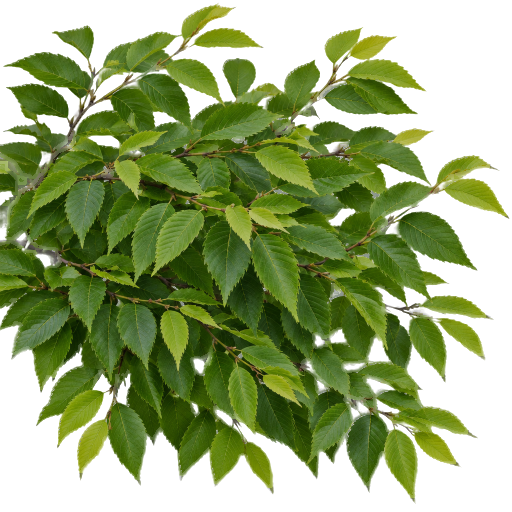
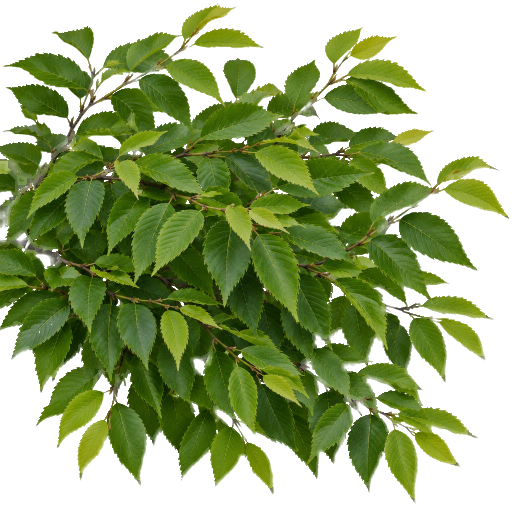
그래픽 마무리: 차 텀블홈·문 거울, 대시보드 문까지·패드·박음질, 나무 텍스처 흰 잔여 제거, 잎 덩어리 둥글게, 거울 받침 야간
- 테스트 자동 운전: 급한 굽은 길 앞 감속 (골목 회전에서 보도로 나가던 것)
- 테스트: 단위 18 · 브라우저 79 통과

diff --git a/cabin.js b/cabin.js
@@ -19,7 +19,7 @@ const grainTex = (base, amp, n) => canvasTex(256, 256, (g, w, h) => {
 const softTex = grainTex('#8a8d93', .06, 9000); softTex.repeat.set(8, 8);      // 대시보드 소프트 플라스틱(무광 결)
 const leatherTex = grainTex('#8a8b90', .12, 7000); leatherTex.repeat.set(24, 2);
 const CM = {
-  dash:  new THREE.MeshStandardMaterial({map:softTex, color:lin('#3a3c41'), roughness:.9, envMapIntensity:.2}),
+  dash:  new THREE.MeshStandardMaterial({map:softTex, color:lin('#3b3d42'), roughness:.92, envMapIntensity:.18}),
   dashLow: new THREE.MeshStandardMaterial({map:softTex, color:lin('#2b2d31'), roughness:.88, envMapIntensity:.2}),
   piano: new THREE.MeshStandardMaterial({color:lin('#07080a'), roughness:.1, metalness:.4, envMapIntensity:1}),        // 디스플레이 테 · 버튼 판(유광 검정)
   satin: new THREE.MeshStandardMaterial({color:lin('#b4b9c0'), roughness:.3, metalness:.95, envMapIntensity:.9}),       // 송풍구 날개 · 핸들 장식
@@ -52,13 +52,29 @@ function extrudeX(pts, x0, x1, mat){
    윗면은 운전자 쪽으로 낮아지며(계기판 자리) 둥글게 꺾여 앞면으로. 앞면엔 가로 금속 띠 + 얇은 송풍구 (요즘 국산 중형 세단 구성) */
 const COWL = {y:-.205, z:-1.05};
 extrudeX([[COWL.z, COWL.y], [-.90, -.222], [-.80, -.245], [-.70, -.262], [-.615, -.272, -.585, -.29], [-.572, -.31, -.574, -.335],
-  [-.574, -.36], [-1.1, -.36]], -.62, 1.36, CM.dash);
-extrudeX([[-.574, -.36], [-.55, -.47], [-.47, -.62], [-.62, -.82], [-1.1, -.82], [-1.1, -.36]], -.62, 1.36, CM.dashLow);
+  [-.574, -.36], [-1.1, -.36]], -1.1, 1.36, CM.dash);   // 왼쪽 끝 −1.1: 문 안쪽까지 (2026-10-29 — 예전 −0.62에서 끝나 왼쪽 아래로 도로가 보였음)
+extrudeX([[-.574, -.36], [-.55, -.47], [-.47, -.62], [-.62, -.82], [-1.1, -.82], [-1.1, -.36]], -1.1, 1.36, CM.dashLow);
 cadd(new THREE.BoxGeometry(1.9, .016, .012), CM.band, .37, -.318, -.576);                     // 가로 금속 띠
 
 cadd(new THREE.BoxGeometry(1.9, .013, .012), CM.piano, .37, -.336, -.577);                     // 얇은 송풍구 틈
 for(const x of [-.38, .2, .55, 1.0]) for(let k=0;k<4;k++) cadd(new THREE.BoxGeometry(.003, .011, .014), CM.satin, x + k*.022, -.336, -.574);   // 송풍구 날개
 cadd(new THREE.BoxGeometry(1.9, .0022, .004), CM.ambient, .37, -.3055, -.5765);                // 무드등 띠
+
+/* 2026-10-29: 대시보드 표면 소재 구분 — 윗면 패드(가죽 결 · 박음질 두 줄) / 앞유리 밑 서리 제거 송풍구 / 유리 아래끝 검은 세라믹 띠 */
+const padTex = canvasTex(256, 256, (g, w, h) => {   // 가죽 결: 작은 주름 점
+  g.fillStyle = '#7e8187'; g.fillRect(0, 0, w, h);
+  for(let i = 0; i < 5200; i++){ const v = Math.random() < .5 ? 40 : 200; g.fillStyle = `rgba(${v},${v},${v},${Math.random()*.08})`; g.beginPath(); g.ellipse(Math.random()*w, Math.random()*h, 1 + Math.random()*1.6, .6 + Math.random(), Math.random()*3, 0, 6.3); g.fill(); }
+}, true); padTex.repeat.set(10, 6);
+CM.pad = new THREE.MeshStandardMaterial({map:padTex, color:lin('#34363a'), roughness:.78, envMapIntensity:.25});
+CM.stitch = new THREE.MeshStandardMaterial({color:lin('#55585e'), roughness:.8});
+CM.frit = new THREE.MeshBasicMaterial({map:canvasTex(8, 64, (g, w, h) => { const gr = g.createLinearGradient(0, h, 0, 0); gr.addColorStop(0, 'rgba(6,7,9,1)'); gr.addColorStop(.55, 'rgba(6,7,9,.9)'); gr.addColorStop(1, 'rgba(6,7,9,0)'); g.fillStyle = gr; g.fillRect(0, 0, w, h); }), transparent:true, depthWrite:false});
+// 윗면 패드: 대시보드 윗면 모양을 따라 1.5mm 위에 얹은 판 (운전자 앞 ~ 조수석 앞)
+extrudeX([[-.93, -.2155], [-.90, -.2205], [-.80, -.2435], [-.70, -.2605], [-.64, -.2685], [-.64, -.2725], [-.93, -.2195]], -.6, 1.34, CM.pad);
+for(const [z, y] of [[-.905, -.2185], [-.648, -.2672]]) for(let x = -.58; x < 1.33; x += .012) cadd(new THREE.BoxGeometry(.006, .0011, .0018), CM.stitch, x, y + .001, z);   // 박음질 (패드와 비슷한 색 — 도로 선처럼 튀지 않게)
+// 서리 제거 송풍구: 앞유리 밑 가로 홈 + 날개
+cadd(new THREE.BoxGeometry(1.5, .003, .03), CM.piano, .37, -.2122, -.985);   // 서리 제거 송풍구 홈 (날개는 홈 안에 숨어 보이지 않음)
+// 앞유리 아래끝 검은 세라믹 띠 (위로 갈수록 옅어짐)
+cadd(new THREE.PlaneGeometry(2.6, .035), CM.frit, .37, COWL.y + .016, COWL.z - .005, -.25);
 
 /* ---------- 파노라마 디스플레이: 계기판(운전자 정면) + 센터 화면(오른쪽)을 한 유리로 ---------- */
 const PANEL = {x:.22, y:-.205, z:-.74, tilt:-.12};

diff --git a/scene.js b/scene.js
@@ -542,11 +542,17 @@ function profileGeo(pts, T, depth, bevel, arches){
   return g;
 }
 const carGeoCache = {};
+// 옆면 기울기 (2026-10-29): 밀어낸 판이라 옆면이 수직 벽이었음 → 허리선(belt) 위로 갈수록 안쪽으로(텀블홈), 유리 캐빈은 더 많이 좁힘
+function tumble(g, y0, y1, k){
+  const p = g.attributes.position;
+  for(let i = 0; i < p.count; i++){ const y = p.getY(i), t = clamp((y - y0)/(y1 - y0)); p.setX(i, p.getX(i)*(1 - k*t)); }
+  p.needsUpdate = true; g.computeVertexNormals(); return g;
+}
 function carGeo(type){
   if(carGeoCache[type]) return carGeoCache[type];
-  const T = CAR_TYPES[type], cw = T.W - .34, out = {};
-  out.body = profileGeo(T.body, T, T.W - .1, true, true);
-  out.cabin = profileGeo(T.cabin, T, cw, true, false);
+  const T = CAR_TYPES[type], cw = T.W - .26, out = {}, belt = T.cabin[0][1] - .02, top = Math.max(...T.cabin.map(q => q[1]));
+  out.body = tumble(profileGeo(T.body, T, T.W - .1, true, true), belt - .35, belt, .05);
+  out.cabin = tumble(profileGeo(T.cabin, T, cw, true, false), belt, top, .24);
   // 뒷유리 양옆 C필러 + 윗테 (차체색) — 뒤에서 봤을 때 유리 덩어리가 아니라 창으로 보이게
   const [p0, p1] = T.cabin, ds = p1[0]-p0[0], dy = p1[1]-p0[1], len = Math.hypot(ds,dy), nx = -dy/len, ny = ds/len;
   const off = .065, mid = [(p0[0]+p1[0])/2 + nx*off, (p0[1]+p1[1])/2 + ny*off], rot = Math.atan2(-ds, dy);
@@ -596,9 +602,14 @@ function carParts(type){
     P.glass.push([geo.cabin, I]);
     P.trim.push([box(T.W-.24, .13, .08), at(0,.38,T.pz-.04)]);
     const [fx, fy] = T.cabin[3];
-    for(const sx of [-1,1]) P.paint.push([box(.2, .12, .1), at(sx*(T.W/2+.06), fy+.06, -(fx-.15))]);
+    // 문 거울: 앞 유리 기둥 밑, 받침(검정) + 덮개(차체색)
+    for(const sx of [-1,1]){ P.trim.push([box(.12, .05, .08), at(sx*(T.W/2 + .02), fy + .04, -(fx - .22))]); P.paint.push([box(.1, .13, .19), at(sx*(T.W/2 + .1), fy + .1, -(fx - .2))]); }
+    // 뒤 범퍼 아래 검은 띠 · 바퀴집 아래 옆 검은 띠
+    P.trim.push([box(T.W - .1, .16, .1), at(0, .3, T.pz - .02)]);
+    for(const sx of [-1,1]) P.trim.push([box(.04, .1, Math.abs(T.wf - T.wr) - .9), at(sx*(T.W/2 - .03), .3, -(T.wf + T.wr)/2)]);
   }
-  for(const sx of [-1,1]) P.lamp.push([box(.4, .13, .05), at(sx*(T.W/2-.3), T.tail, T.tz)]);
+  for(const sx of [-1,1]) P.lamp.push([box(.46, .12, .05), at(sx*(T.W/2-.31), T.tail, T.tz)]);
+  if(type !== 'truck') P.lamp.push([box(T.W - 1.2, .025, .04), at(0, T.tail + .03, T.tz)]);   // 가운데 이어진 미등 선
   P.plate.push([box(.52, .12, .02), at(0,.52,T.pz)]);
   // 앞: 전조등 2 · 주간등 띠 · 그릴 · 앞 번호판 · 범퍼 아래 검은 띠 → 미러 · 마주 오는 차에서 앞모습이 읽힘
   for(const sx of [-1,1]){ P.head.push([box(.42, .11, .06), at(sx*(T.W/2-.32), T.hy, T.hz)]); P.head.push([box(.3, .025, .065), at(sx*(T.W/2-.36), T.hy + .085, T.hz)]); }

diff --git a/mirrors.js b/mirrors.js
@@ -46,7 +46,7 @@ const MIR = {
     }`;
   const stemMat = new THREE.MeshBasicMaterial({color:0x101215});
   // 거울을 차에 붙이는 부분 (2026-10-29): 사이드미러 = 화면 가장자리 문 쪽에서 거울 밑으로 오는 검은 받침(도어 삼각 패널), 룸미러 = 앞유리 위 센서 덮개
-  const mountMat = new THREE.MeshBasicMaterial({vertexColors:true, side:THREE.DoubleSide, depthTest:false, depthWrite:false});
+  const mountMat = MIR.mountMat = new THREE.MeshBasicMaterial({vertexColors:true, side:THREE.DoubleSide, depthTest:false, depthWrite:false});
   const polyGeo = (pts, top, bot) => { const g = new THREE.BufferGeometry(), pos = [], col = [], ymin = Math.min(...pts.map(p => p[1])), ymax = Math.max(...pts.map(p => p[1]));
     for(let i = 1; i < pts.length - 1; i++) [pts[0], pts[i], pts[i+1]].forEach(([x, y]) => { pos.push(x, y, 0); const t = (y - ymin)/Math.max(1, ymax - ymin); col.push(bot[0] + (top[0] - bot[0])*t, bot[1] + (top[1] - bot[1])*t, bot[2] + (top[2] - bot[2])*t); });
     g.setAttribute('position', new THREE.Float32BufferAttribute(pos, 3)); g.setAttribute('color', new THREE.Float32BufferAttribute(col, 3)); return g; };
@@ -94,6 +94,7 @@ const MIR = {
     if(!MIR.on || typeof EGO === 'undefined') return;
     MIR.ema += (frameMs - MIR.ema)*.05; MIR.slow = MIR.ema > 24; MIR.frame++;
     const dim = NIGHT ? .92 : 1, sm = renderer.shadowMap.autoUpdate;
+    MIR.mountMat.color.setScalar(NIGHT ? .22 : 1);   // 거울 받침 · 센서 덮개: 밤엔 실내처럼 어둡게
     renderer.shadowMap.autoUpdate = false;
     MIR.list.forEach((M, i) => {
       M.mat.uniforms.dim.value = dim;

diff --git a/props.js b/props.js
@@ -15,7 +15,18 @@ const PROPS = (() => {
   });
   const leafMat = new THREE.MeshStandardMaterial({map:leafFallback, alphaTest:.42, side:THREE.DoubleSide, roughness:.9, envMapIntensity:.25});
   const leafDepth = new THREE.MeshDepthMaterial({depthPacking:THREE.RGBADepthPacking, map:leafFallback, alphaTest:.42});
-  loadTex('assets/tex/leaves.png', t => { t.wrapS = t.wrapT = THREE.ClampToEdgeWrapping; leafMat.map = t; leafDepth.map = t; leafMat.needsUpdate = leafDepth.needsUpdate = true; });
+  // 잎 덩어리 판이 네모로 보이지 않게: 불러온 잎 그림에 들쭉날쭉한 둥근 가장자리(잡음 섞인 원)를 곱함
+  loadTex('assets/tex/leaves.png', t => {
+    const img = t.image, c = document.createElement('canvas'); c.width = img.width; c.height = img.height; const g = c.getContext('2d'); g.drawImage(img, 0, 0);
+    const d = g.getImageData(0, 0, c.width, c.height), W = c.width, H = c.height;
+    for(let y = 0; y < H; y++) for(let x = 0; x < W; x++){
+      const dx = (x - W/2)/(W/2), dy = (y - H/2)/(H/2), a = Math.atan2(dy, dx), r = Math.hypot(dx, dy), edge = .78 + .14*Math.sin(a*5 + 1.3) + .08*Math.sin(a*11);
+      if(r > edge) d.data[(y*W + x)*4 + 3] = 0; else if(r > edge - .12) d.data[(y*W + x)*4 + 3] *= (edge - r)/.12;
+    }
+    g.putImageData(d, 0, 0);
+    const ct = new THREE.CanvasTexture(c); ct.encoding = THREE.sRGBEncoding; ct.anisotropy = MAX_ANISO;
+    leafMat.map = ct; leafDepth.map = ct; leafMat.needsUpdate = leafDepth.needsUpdate = true;
+  });
 
   // 나무 한 그루 모양 (원점 = 밑동, 높이 ≈ 8m). r: 이 모양만의 난수
   function treeShape(R){

diff --git a/assets/README.md b/assets/README.md
@@ -1,6 +1,6 @@
 # assets — AI 생성 이미지 (Higgsfield, 2026-10-29)
 
-생성 도구: Higgsfield `gpt_image_2_5` (medium · 1k). 출처 · 프롬프트 · 이용 조건 기록 원본은 `../../04_리서치/2026-10-29_AI생성에셋_Higgsfield.md`.
+생성 도구: Higgsfield `gpt_image_2_5` (medium · 1k) + 배경 제거. 출처 · 프롬프트 · 이용 조건 기록 원본은 `../../04_리서치/2026-10-29_AI생성에셋_Higgsfield.md`.
 
 | 파일 | 구분 | 쓰인 곳 | 처리 |
 |---|---|---|---|
@@ -8,8 +8,12 @@
 | `tex/facade.jpg` | **실제 적용** | `scene.js` · `city.js` 건물 벽(`facadeMats`, 한 장 18 × 21m) + 밤 창(같은 그림의 유리 부분에서 생성) | 512px JPEG |
 | `tex/sidewalk.jpg` | **실제 적용** | `city.js` 보도(`cityMats.walk`, 한 장 1.8m) | 512px JPEG |
 | `ref/0_art_day.jpg` · `ref/1_art_night.jpg` | 참고 시안 | 실내 · 미러 배치 · 계기판 정리 방향 (`mirrors.js` · `cabin.js`) | 화면에 쓰지 않음 |
-| `ref/2_hud_states.jpg` | 참고 시안 | 우리 HUD v2 상태(이동 · 대기 · 확인 · 정체) 비교 — `hud2.js`. 정체 '틈 없음'의 가로 막대는 '정지'로 읽힐 수 있어 채택 안 함 | 화면에 쓰지 않음 |
+| `ref/2_hud_states.jpg` | 참고 시안 | 우리 HUD 상태(이동 · 대기 · 확인 · 정체) 첫 시안 — 오전 작업 비교용. 정체 '틈 없음'의 가로 막대는 '정지'로 읽힐 수 있어 채택 안 함 | 화면에 쓰지 않음 |
 | `ref/6_vehicles.jpg` · `ref/7_peds.jpg` | 참고 시안 | 차량 앞모습(전조등 · 그릴) · 버스 · 보행자 비례 — `scene.js` · `city.js` 메시 | 화면에 쓰지 않음 |
+| `tex/tree_zelkova.png` · `tex/tree_pine.png` | **실제 적용** | `scene.js` 고속도로 판 나무 그림 | Higgsfield 배경 제거 + 흰 잔여 제거, PNG(투명) |
+| `tex/leaves.png` | **실제 적용** | `props.js` 입체 가로수 잎 덩어리 | 배경 제거 + 둥근 가장자리(코드) |
+| `tex/facade_apt.jpg` · `tex/facade_glass.jpg` · `tex/shopfront.jpg` | **실제 적용** | `scene.js BUILD` · `city.js` 건물 종류 · 1층 상가 · 먼 아파트 | 512 · 1024px JPEG, 밤 창은 같은 그림에서 생성 |
+| `ref/2_0_hud_grid.jpg` · `ref/2_7_interior.jpg` · `ref/2_tree_sources.jpg` | 참고 시안 | 우리 HUD 상태 비교 · 실내 · 나무 원본 | 화면에 쓰지 않음 |
 
 - 차선 · 정지선 · 횡단보도 · 차량 · 보행자 위치는 모두 맵 좌표로 코드가 그린다. 생성 이미지는 노면 · 벽 · 보도의 **재질**로만 쓴다(주행 가능 영역과 무관).
 - 텍스처를 못 불러오면 예전처럼 코드로 그린 텍스처가 그대로 쓰인다(`loadTex`).
